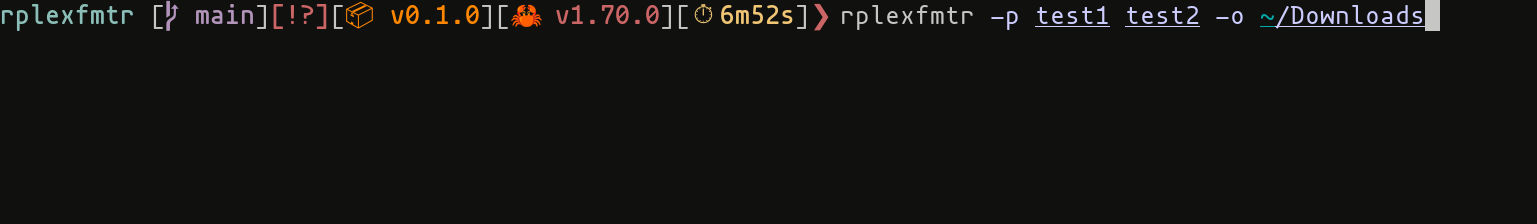
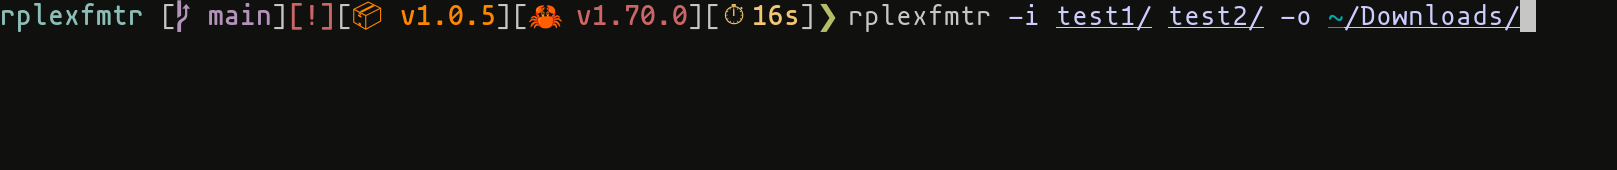
Fixed README

Changed region(s): [[0.0, 0.0, 0.9681, 0.2059]]

diff --git a/README.md b/README.md
@@ -7,7 +7,7 @@ Quick, easy to use, cross platform utility for batch renaming of video files for
 
 ## Usage
 ```bash
-plexfmtr -p [input_folder(s)] -o [output_folder]
+plexfmtr -i [input_folder(s)] -o [output_folder]
 ```
 Where input_folders(s) is the folder containing the media to be renamed. You can input multiple media folders as a space separated list.
 The output folder is a single output directory where the the series will be moved to.
@@ -24,7 +24,7 @@ cargo install rplexfmtr
 
 ![Command Invocation Example](README/Command%20Invocation.png)
 
-Here we give the folder(s) containing the files we want to rename using the -p flag and specify where we want to move the files using the -o flag.
+Here we give the folder(s) containing the files we want to rename using the -i flag and specify where we want to move the files using the -o flag.
 
 After pressing enter, we are shown the first input directory given and rplexfmtr asks us what would you like the files in folder highlighted in green.
 
@@ -37,11 +37,11 @@ After pressing enter once again, we will be shown a list of the files within the
 
 ![Display Directory Files](README/Display%20directory%20files.png) \
 Once here we can choose which files we would like to rename. We can input a range in the prompt in the any of the following formats:
-- Dual ended range. For example, `0-2` will choose files `0,1,2` from the files presented above.
+- Dual ended range. For example, `0-2` will choose files `0,1,2`.
 - Left ended range: For example, `1-` will choose files `1,2,3`, from the files presented above.
 - Right ended range: For example, `-2` will choose files `0,1,2`, from the files presented above.
-- Comma Separated Values: For example, `0,1,3` will chooses files `0,1,3`, from the files presented above.
-- Space separated values: For example, `2 1 3` will choose files `1,2,3`, from the files presented above.
+- Comma Separated Values: For example, `0,1,3` will chooses files `0,1,3`.
+- Space separated values: For example, `2 1 3` will choose files `1,2,3`.
 - Whole list: If you press enter without giving a range, all the files will be selected. For example, files `0,1,2,3` will be chosen, from the files presented above.
 ![Entering a Range](README/Entering%20a%20range.png)
 **NOTE:** If a value provided by the user is not in the list, for example `4` in the above example, this number will be discarded.
